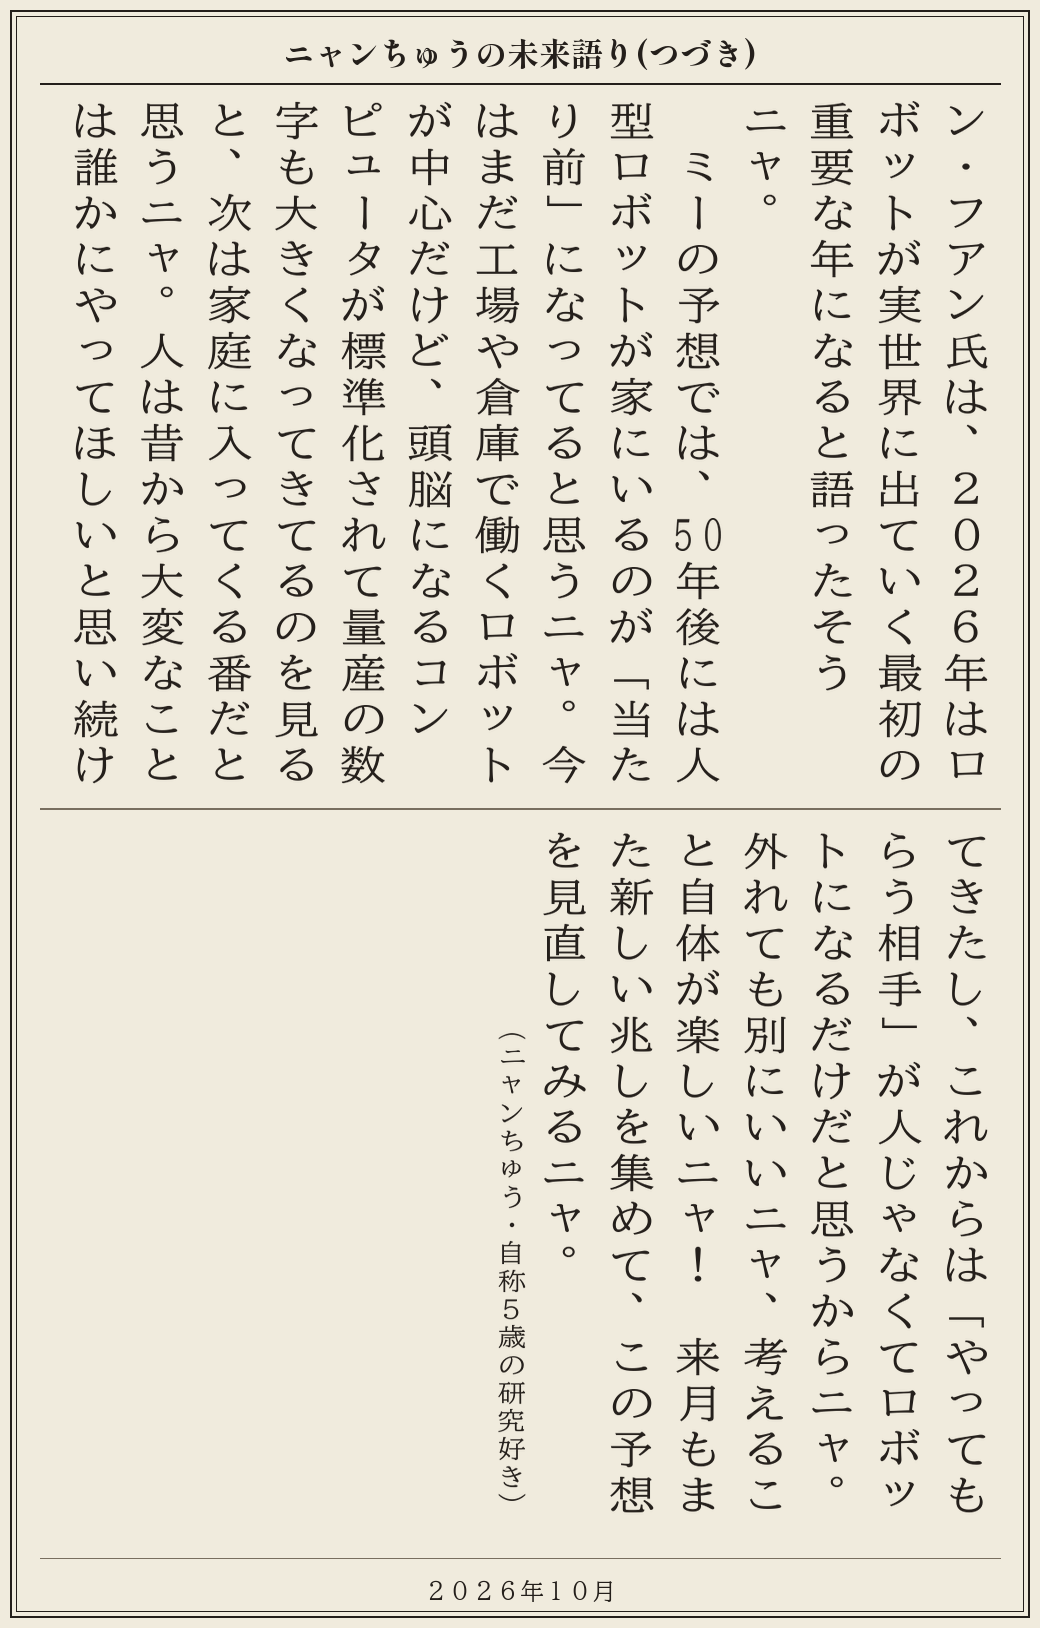
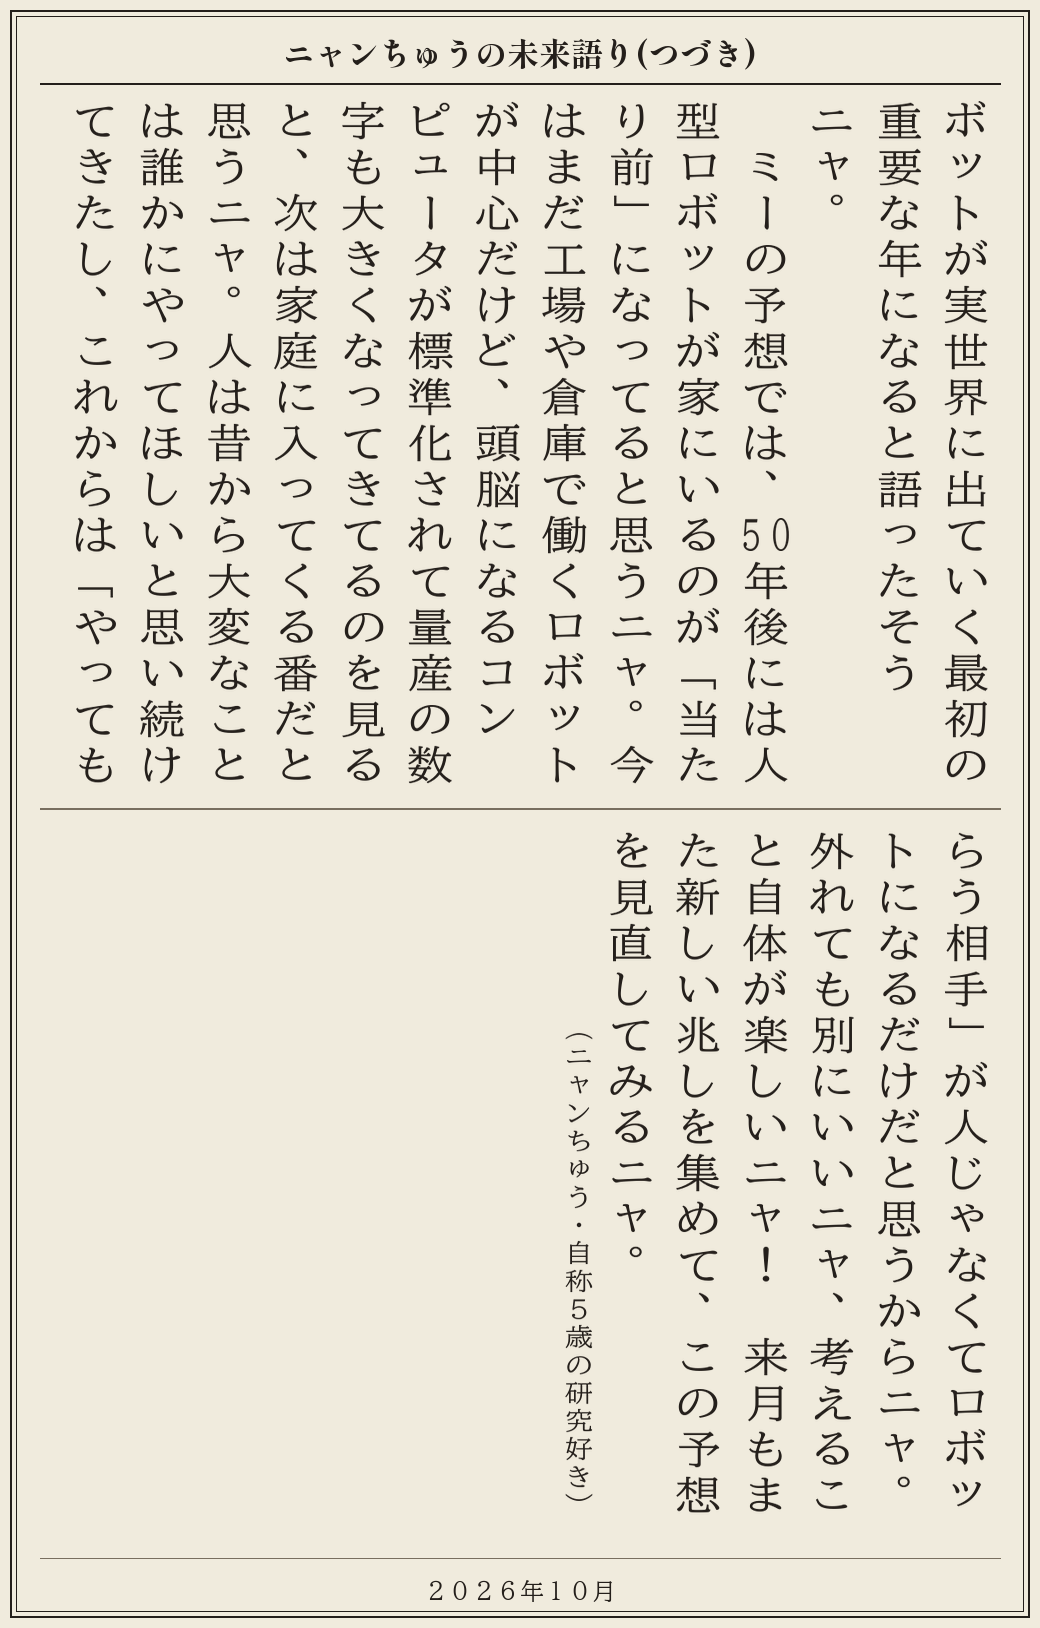
Place photo/caption at band bottom, flow body text above it
The photo previously occupied its own full-height column reserved
from the top of the first band, leaving a large blank area below the
photo down to the band's rule line. The photo and byline caption are
now bottom-aligned within that same zone (just above the rule), and
the body text flows through that zone as regular columns, shortened
(photo_cap_short) to stop right above the photo top so no column
overlaps it. verify_no_overlap, kinsoku and char-count checks are
unaffected; all other specs (flatten, fonts, rules, signature, digit
sizing, heading "／" breaks) are unchanged.

Regenerated all four preview PNGs with the updated renderer.

Changed region(s): [[0.4615, 0.0614, 0.9538, 0.9521], [0.0615, 0.0614, 0.3692, 0.4914], [0.4, 0.0614, 0.4308, 0.4914]]

diff --git a/tools/render_column.py b/tools/render_column.py
@@ -581,28 +581,41 @@ def render(paragraphs, raw_heading, title, photo_path, byline, date_text, signat
             heading_rects.append((col_x0, page.band_top, col_x1, page.band_top + col_h))
         page.cursor_x -= HEAD_PITCH
 
-    # --- 写真(見出しの横、専用の列。見出しのどの列とも重ならない) ---
+    # --- 写真(見出しの左下、専用の列。見出しのどの列とも重ならない) ---
+    # 写真と肩書きは1段目の下端(段の罫線の少し上)に下揃えで置く。その真上に
+    # 空く領域には本文の列を通常どおり流し込み、写真の高さぶんだけ列を
+    # 短く折り返す(photo_cap_short)ことで写真の上下に大きな空白を作らない。
     photo_rect = None
+    photo_zone_x0 = None
+    photo_cap_short = CHARS_PER_BAND
     if photo_img is not None:
         cap_font = get_font(PHOTO_CAPTION_SIZE, body_font_path)
+        byline_lines = byline.split("\n")
         max_cap_w = 0.0
-        for line in byline.split("\n"):
+        for line in byline_lines:
             cb = page.draw.textbbox((0, 0), line, font=cap_font)
             max_cap_w = max(max_cap_w, cb[2] - cb[0])
         content_w = max(PHOTO_SIZE, max_cap_w)
         photo_col_pitch = content_w + 24
         zone_x1 = page.cursor_x - PHOTO_COL_GAP
         zone_x0 = max(page.content_left, zone_x1 - photo_col_pitch)
-        photo_rect = _place_photo_and_caption(page, photo_img, byline, body_font_path,
-                                               zone_x0, zone_x1, page.band_top)
-        page.cursor_x = zone_x0
 
-    page.cursor_x -= COL_PITCH // 3  # 見出し/写真と本文の間の余白
+        caption_h = len(byline_lines) * PHOTO_CAPTION_LINE_H
+        block_h = PHOTO_SIZE + PHOTO_CAPTION_GAP + caption_h
+        band_bottom_first = page.band_top + BAND_H
+        photo_top_y = band_bottom_first - block_h
+
+        photo_rect = _place_photo_and_caption(page, photo_img, byline, body_font_path,
+                                               zone_x0, zone_x1, photo_top_y)
+        photo_zone_x0 = zone_x0
+        photo_cap_short = max(1, (photo_top_y - page.band_top) // CELL)
+        page.cursor_x = zone_x1
+    else:
+        page.cursor_x -= COL_PITCH // 3  # 見出しと本文の間の余白(写真なしの場合)
 
     body_font = get_font(CELL, body_font_path)
     tcy_font = get_font(CELL, body_font_path)
     tcy_target_w = round(COL_PITCH * 0.9)
-    row_cap = CHARS_PER_BAND
 
     total_chars_in = sum(len(p) for p in paragraphs)
     total_chars_drawn = 0
@@ -615,7 +628,11 @@ def render(paragraphs, raw_heading, title, photo_path, byline, date_text, signat
         ri = 0
         n_rows = len(rows)
         while ri < n_rows:
-            cap = row_cap - (1 if indent else 0)
+            in_photo_zone = (photo_zone_x0 is not None and page.page_no == 1
+                              and page.band_top == first_band_top
+                              and page.cursor_x > photo_zone_x0)
+            row_cap = photo_cap_short if in_photo_zone else CHARS_PER_BAND
+            cap = max(1, row_cap - (1 if indent else 0))
 
             if page.cursor_x - COL_PITCH / 2 < page.content_left:
                 if page.ensure_room_for_band(BAND_H):
